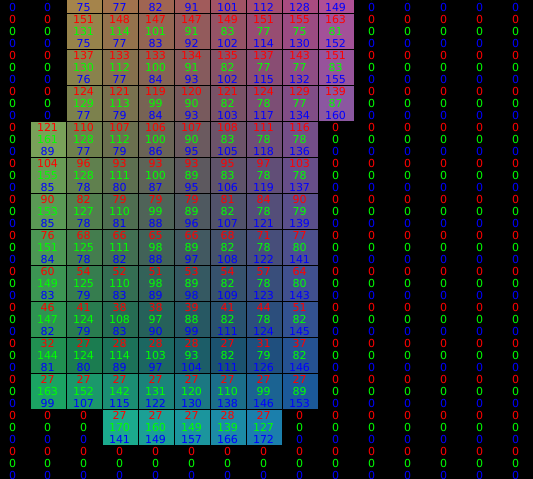
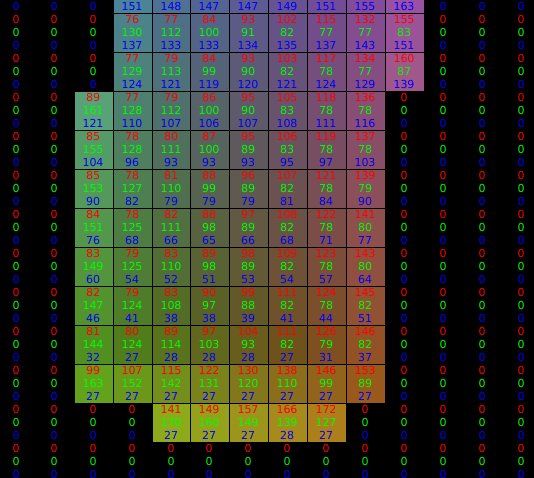
Add sample data

diff --git a/fix_nocs.py b/fix_nocs.py
@@ -56,23 +56,17 @@ nocs_image_path = os.path.join(args.choc_dir, "mixed-reality", "nocs", utils.ima
 nocs_image = cv2.imread(nocs_image_path)[:,:,::-1] # load as RGB
 
 # Visualise the problem [zoom in on background to see the pixel values]
-cv2.imshow("problematic nocs background", nocs_image)
-#cv2.waitKey(0)
-#cv2.destroyAllWindows()
+cv2.imshow("problematic nocs background", nocs_image[:,:,::-1])
 
 # Fix the problem
 print("unique values in nocs:", np.unique(nocs_image))
 nocs_image_fixed = utils.fix_background_nocs(nocs_image)
 print("unique values in nocs fixed:", np.unique(nocs_image_fixed))
 
-im_pil = Image.fromarray(nocs_image_fixed)
-im_pil.show()
-
 # Visualise the fixed nocs [zoom in on background to see the pixel values]
-cv2.imshow("fixed nocs background", nocs_image_fixed)
-# cv2.waitKey(0)
-# #cv2.destroyAllWindows()
+cv2.imshow("fixed nocs background", nocs_image_fixed[:,:,::-1])
 
+# Press 'Esc' key to close windows
 while True:
     k = cv2.waitKey(0) & 0xFF
     print(k)

diff --git a/convert_poses.py b/convert_poses.py
@@ -52,6 +52,9 @@ object_id = image_info["object_id"]
 pose_quat_wxyz = image_info["pose_quaternion_wxyz"]
 location_xyz = image_info["location_xyz"]
 
+print("Pose (Quaternion WXYZ):", pose_quat_wxyz)
+print("Location (XYZ):", location_xyz)
+
 # Get the height of the object in this image
 object_datastructure_path = os.path.join(args.choc_dir, "mixed-reality", "extra", "object_models", "object_datastructure.json")
 with open(object_datastructure_path, 'r') as f:

diff --git a/README.md b/README.md
@@ -14,7 +14,6 @@ This code has been tested with python 3.9, but should work with other versions. 
 ```
 conda create -n CHOC-toolkit-env python=3.9
 conda activate CHOC-toolkit-env
-
 ```
 
 You can install the dependencies as follows:
@@ -24,7 +23,16 @@ pip install -r requirements.txt
 
 ### Running the sample codes
 
+Here, we will explain how to inspect the data in 3D, clean the NOCS backgrounds, and convert the annotated poses into camera2object poses.
+We will use "000251" in the CHOC mixed-reality data as example, which you can also find in this repository in the _sample_ folder.
+
+  RGB                       |  NOCS                     |  Mask                     |  Depth
+:--------------------------:|:-------------------------:|:-------------------------:|:-------------------------:
+![RGB](sample/CHOC/mixed-reality/rgb/b_000001_001000/000251.png) |![NOCS](sample/CHOC/mixed-reality/nocs/b_000001_001000/000251.png)|![Mask](sample/CHOC/mixed-reality/mask/b_000001_001000/000251.png)|![Depth](sample/CHOC/mixed-reality/depth/b_000001_001000/000251.png)
+
 #### Inspecting the data
+
+We provide some sample code to visualise the data in 3D.
 ```
 python inspect_data.py --choc_dir <path_to_choc>
 ```
@@ -34,14 +42,55 @@ python inspect_data.py --choc_dir <path_to_choc>
 python fix_nocs.py --choc_dir <path_to_choc>
 ```
 
+Here is an example of the NOCS image ("000001.png") before and after using Otsu's algorithm to 'fix' the background:
   Before                    |  After
 :--------------------------:|:-------------------------:
 ![Before processing](images/nocs_before.png) |![After processing](images/nocs_after.png)
 
 #### Convert the poses
+
+Here's an example of the annotated file, e.g.: CHOC > mixed-reality > annotations > b_000001_0010000 > 000001.json:
 ```
-python convert_poses.py --choc_dir <path_to_choc>
+{
+    "background_id": "000000.png",
+    "flip_box": false,
+    "grasp_id": 0,
+    "location_xyz": [
+        0.32728955149650574,
+        4.607999801635742,
+        -0.06526760011911392
+    ],
+    "object_id": 29,
+    "pose_quaternion_wxyz": [
+        0.9287700653076172,
+        -0.1474159061908722,
+        0.09974487870931625,
+        0.3251240849494934
+    ],
+    "occlusion_ratio": 57.89473684210527
+}
 ```
+The _location\_xyz_ and _pose\_quaternion\_wxyz_ is the pose that was used to place the object inside the blender environment. It is NOT the camera-object pose. To convert the pose, you can do as follows:
+```
+python convert_poses.py --choc_dir <path_to_choc> --image_index <image_index_string>
+```
+
+For image_index "000001" the result will be:
+```
+Pose for blender:
+[[   0.76869058   -0.633339      0.08942319  327.2895515 ]
+ [   0.57452307    0.74512576    0.33868989 4607.99980164]
+ [  -0.28113704   -0.20897204    0.93663902  -65.26760012]
+ [   0.            0.            0.            1.        ]]
+
+Pose between camera and object:
+[[    0.76869058    -0.633339       0.08942319   332.58864591]
+ [   -0.28113704    -0.20897204     0.93663902    -9.76367027]
+ [   -0.57452307    -0.74512576    -0.33868989 -4628.07009489]
+ [    0.             0.             0.             1.        ]]
+```
+Pose for blender is simply _location\_xyz_ and _pose\_quaternion\_wxyz_ converted into a 4x4 transformation matrix.
+Pose between camera and object is the 4x4 transformation matrix between the camera and object.
 
 ### Other instructions
 
